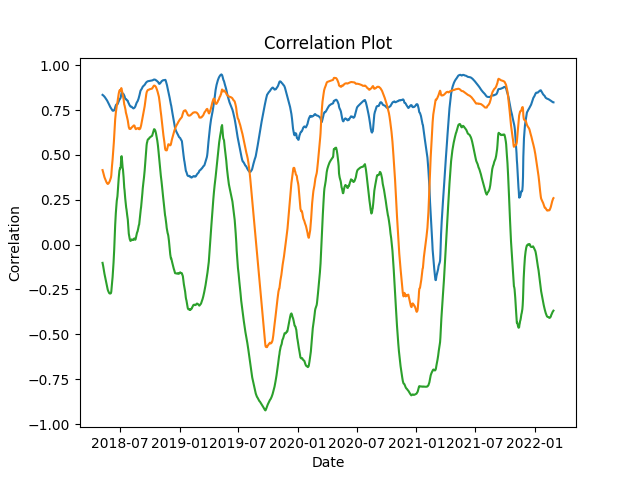
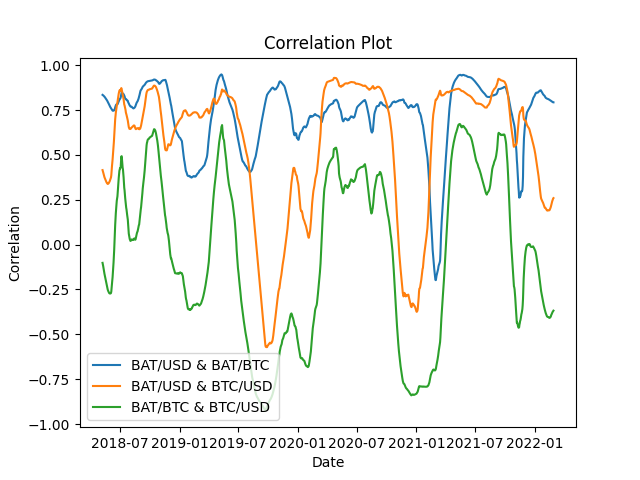
roi_update

Changed region(s): [[0.125, 0.7188, 0.4375, 0.875]]

diff --git a/main.py b/main.py
@@ -117,6 +117,7 @@ def correlation_plot(df, plt_show=False, plt_save=False, png_name='plot.png'):
     plt.title('Correlation Plot')
     plt.xlabel('Date')
     plt.ylabel('Correlation')
+    plt.legend(['BAT/USD & BAT/BTC','BAT/USD & BTC/USD','BAT/BTC & BTC/USD'])
     if plt_show == True:
         plt.show()
     if plt_save == True:
@@ -144,8 +145,78 @@ def rolling_correlation(df):
     roll_df = pd.concat([roll_bat, roll_usd, roll_bat_btc], axis=1)
     return roll_df
 
+def create_holdings_portfolio(start_date, today, hold_only_columns = ['BAT','USD','BTC']):
+        index = pd.date_range(start_date, today)
+        port_df = pd.DataFrame(index=index,columns=hold_only_columns)
+
+        trading_dates = pd.date_range(start_date, today, freq='1M')+pd.offsets.MonthBegin(-1)
+        return port_df, trading_dates
+
+def bat_acquisition(df, today, trade_dates, BAT_USD, BAT_BTC):
+        for i, date in enumerate(trade_dates):
+            date = date.strftime("%Y-%m-%d")
+            if i == 0:
+                # find conversion rates
+                bat_conversion_rate = float(BAT_USD[BAT_USD['date'] == date]['close'])
+                btc_conversion_rate = float(BAT_BTC[BAT_BTC['date'] == date]['close'])
+
+                # add to portfolio
+                df.loc[date]['BAT'] = 100 
+                df.loc[date]['USD'] = 100 * bat_conversion_rate
+                df.loc[date]['BTC'] = 100 * btc_conversion_rate
+                df = df.ffill()
+            else:
+                # find conversion rates
+                bat_conversion_rate = float(BAT_USD[BAT_USD['date'] == date]['close'])
+                btc_conversion_rate = float(BAT_BTC[BAT_BTC['date'] == date]['close'])
+
+                # add to portfolio
+                df.loc[date, 'BAT'] += 100
+                df.loc[date, 'USD'] += 100 * bat_conversion_rate
+                df.loc[date, 'BTC'] += 100 * btc_conversion_rate
+                
+                # fill down
+                df[date:today]['BAT'] = df.loc[date,'BAT']
+                df[date:today]['USD'] = df.loc[date,'USD']
+                df[date:today]['BTC'] = df.loc[date,'BTC']
+
+        return df
+
+def calc_hold_only_roi(df, bat_usd, btc_usd, start_date, today):
+        df_roi = df.copy()
+        BAT_USD_roi = bat_usd.set_index('date')
+        BTC_USD_roi = btc_usd.set_index('date')
+
+        BAT_USD_roi = BAT_USD_roi.loc[start_date:today]['close']
+        BTC_USD_roi = BTC_USD_roi.loc[start_date:today]['close']
+        
+        df_roi['BAT_ROI'] = df_roi['BAT'] * BAT_USD_roi
+        df_roi['BTC_ROI'] = df_roi['BTC'] * BTC_USD_roi
+        df_roi = df_roi.rename(columns={'USD':'USD_ROI'})
+
+        df_roi = df_roi[['USD_ROI','BAT_ROI','BTC_ROI']]
+
+        return df_roi
+
+def roi_plot(df, plt_show=False, plt_save=False, png_name='roi_plot.png'):
+    fig, ax = plt.subplots()
+    plt.plot(df)
+    plt.title('ROI/Price Plot')
+    plt.xlabel('Date')
+    plt.ylabel('Price')
+    fmt = '${x:,.2f}'
+    tick = mtick.StrMethodFormatter(fmt)
+    ax.yaxis.set_major_formatter(tick) 
+    plt.legend(['USD_ROI','BAT_ROI','BTC_ROI'])
+    if plt_show == True:
+        plt.show()
+    if plt_save == True:
+        plt.savefig(png_name)
+
+
     
 if __name__ == "__main__":
+    print('execution started')
     # extract data
     # BTC_USD = extract_data('BTC/USD', '2017-11-09', '2022-02-28')
 
@@ -168,6 +239,27 @@ if __name__ == "__main__":
     # rolling correlation
     rolling_correlation_df = rolling_correlation(close_df)
     correlation_plot(rolling_correlation_df, False, False, 'plots/rolling_correlation.png')
+
+
+    ### market holdings
+
+    start_date = '2021-01-01'
+    # today = datetime.datetime.now().strftime("%Y-%m-%d")
+    today = '2022-02-28'
+
+    hold_only_portfolio, trade_dates = create_holdings_portfolio(start_date, today, hold_only_columns = ['BAT','USD','BTC'])
+    hold_only_portfolio = bat_acquisition(hold_only_portfolio, today, trade_dates, BAT_USD, BAT_BTC)
+
+
+    ### ROI conversion/analysis (convert everything to USD for appropriate $ analysis)
+    hold_only_portfolio_roi = calc_hold_only_roi(hold_only_portfolio, BAT_USD, BTC_USD, start_date, today)
+    roi_plot(hold_only_portfolio_roi, False, False, 'plots/roi_plot.png')
+
+
+
+
+
+
 
 
 
